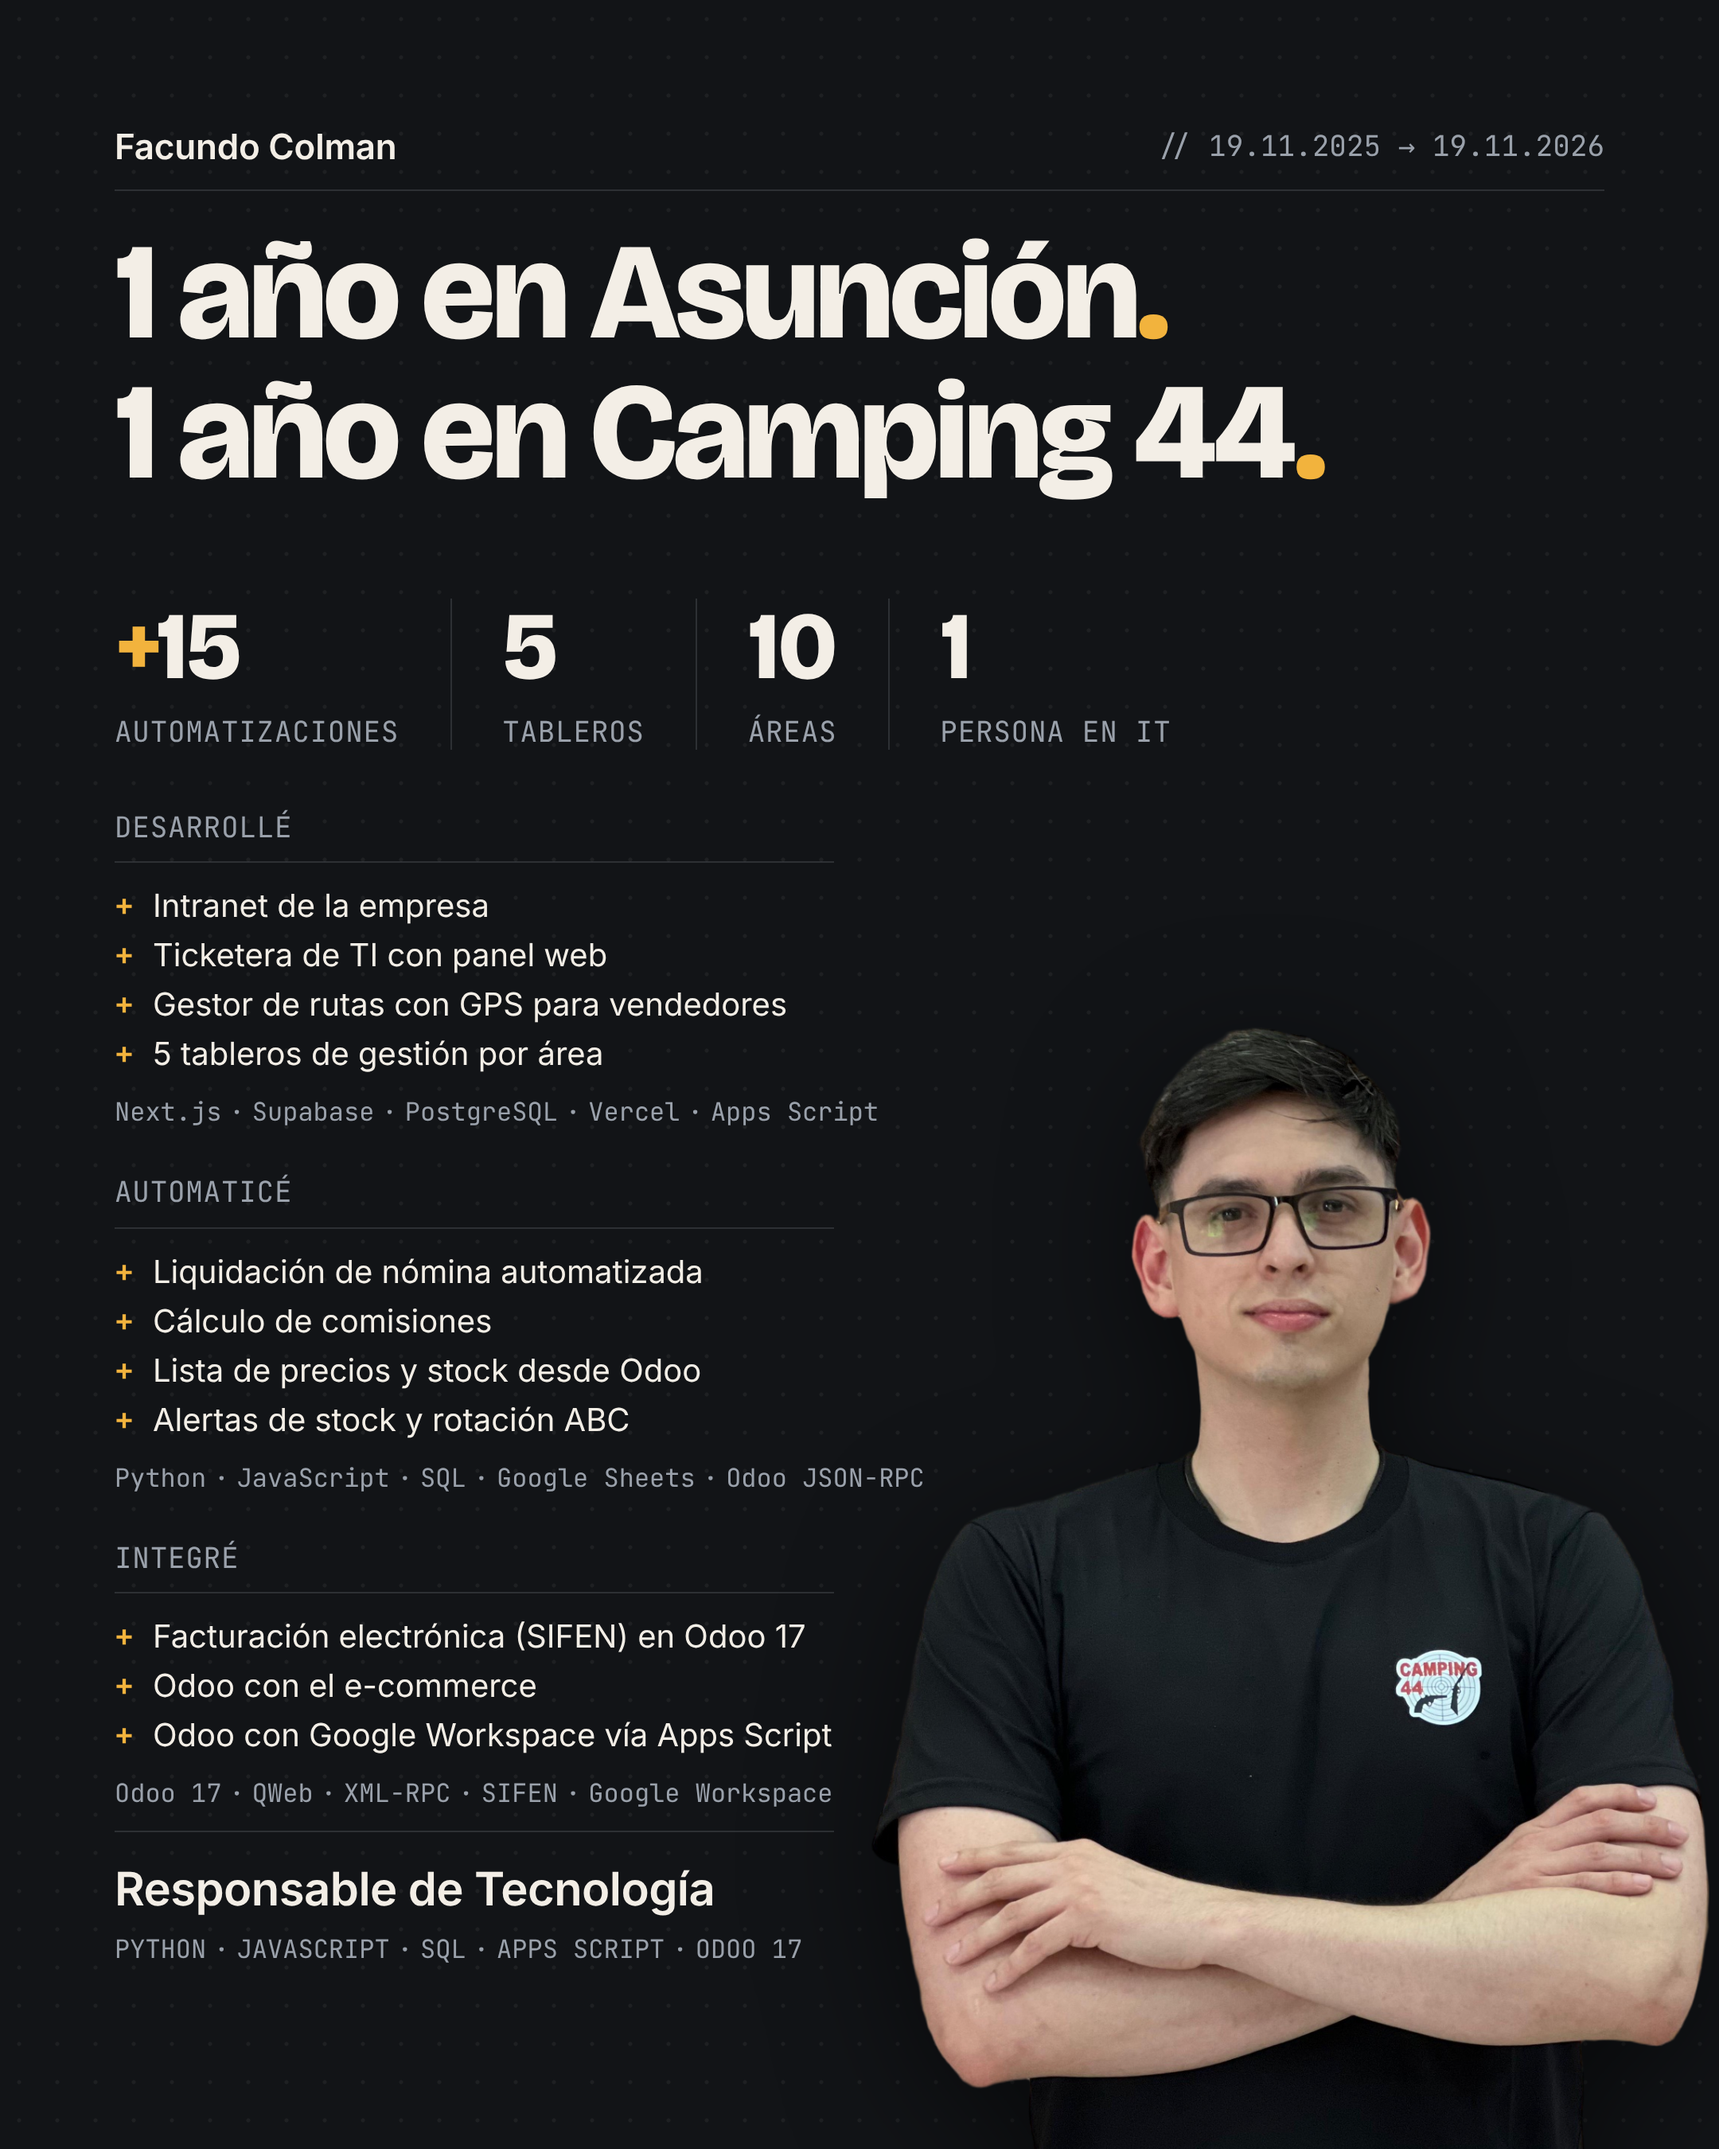
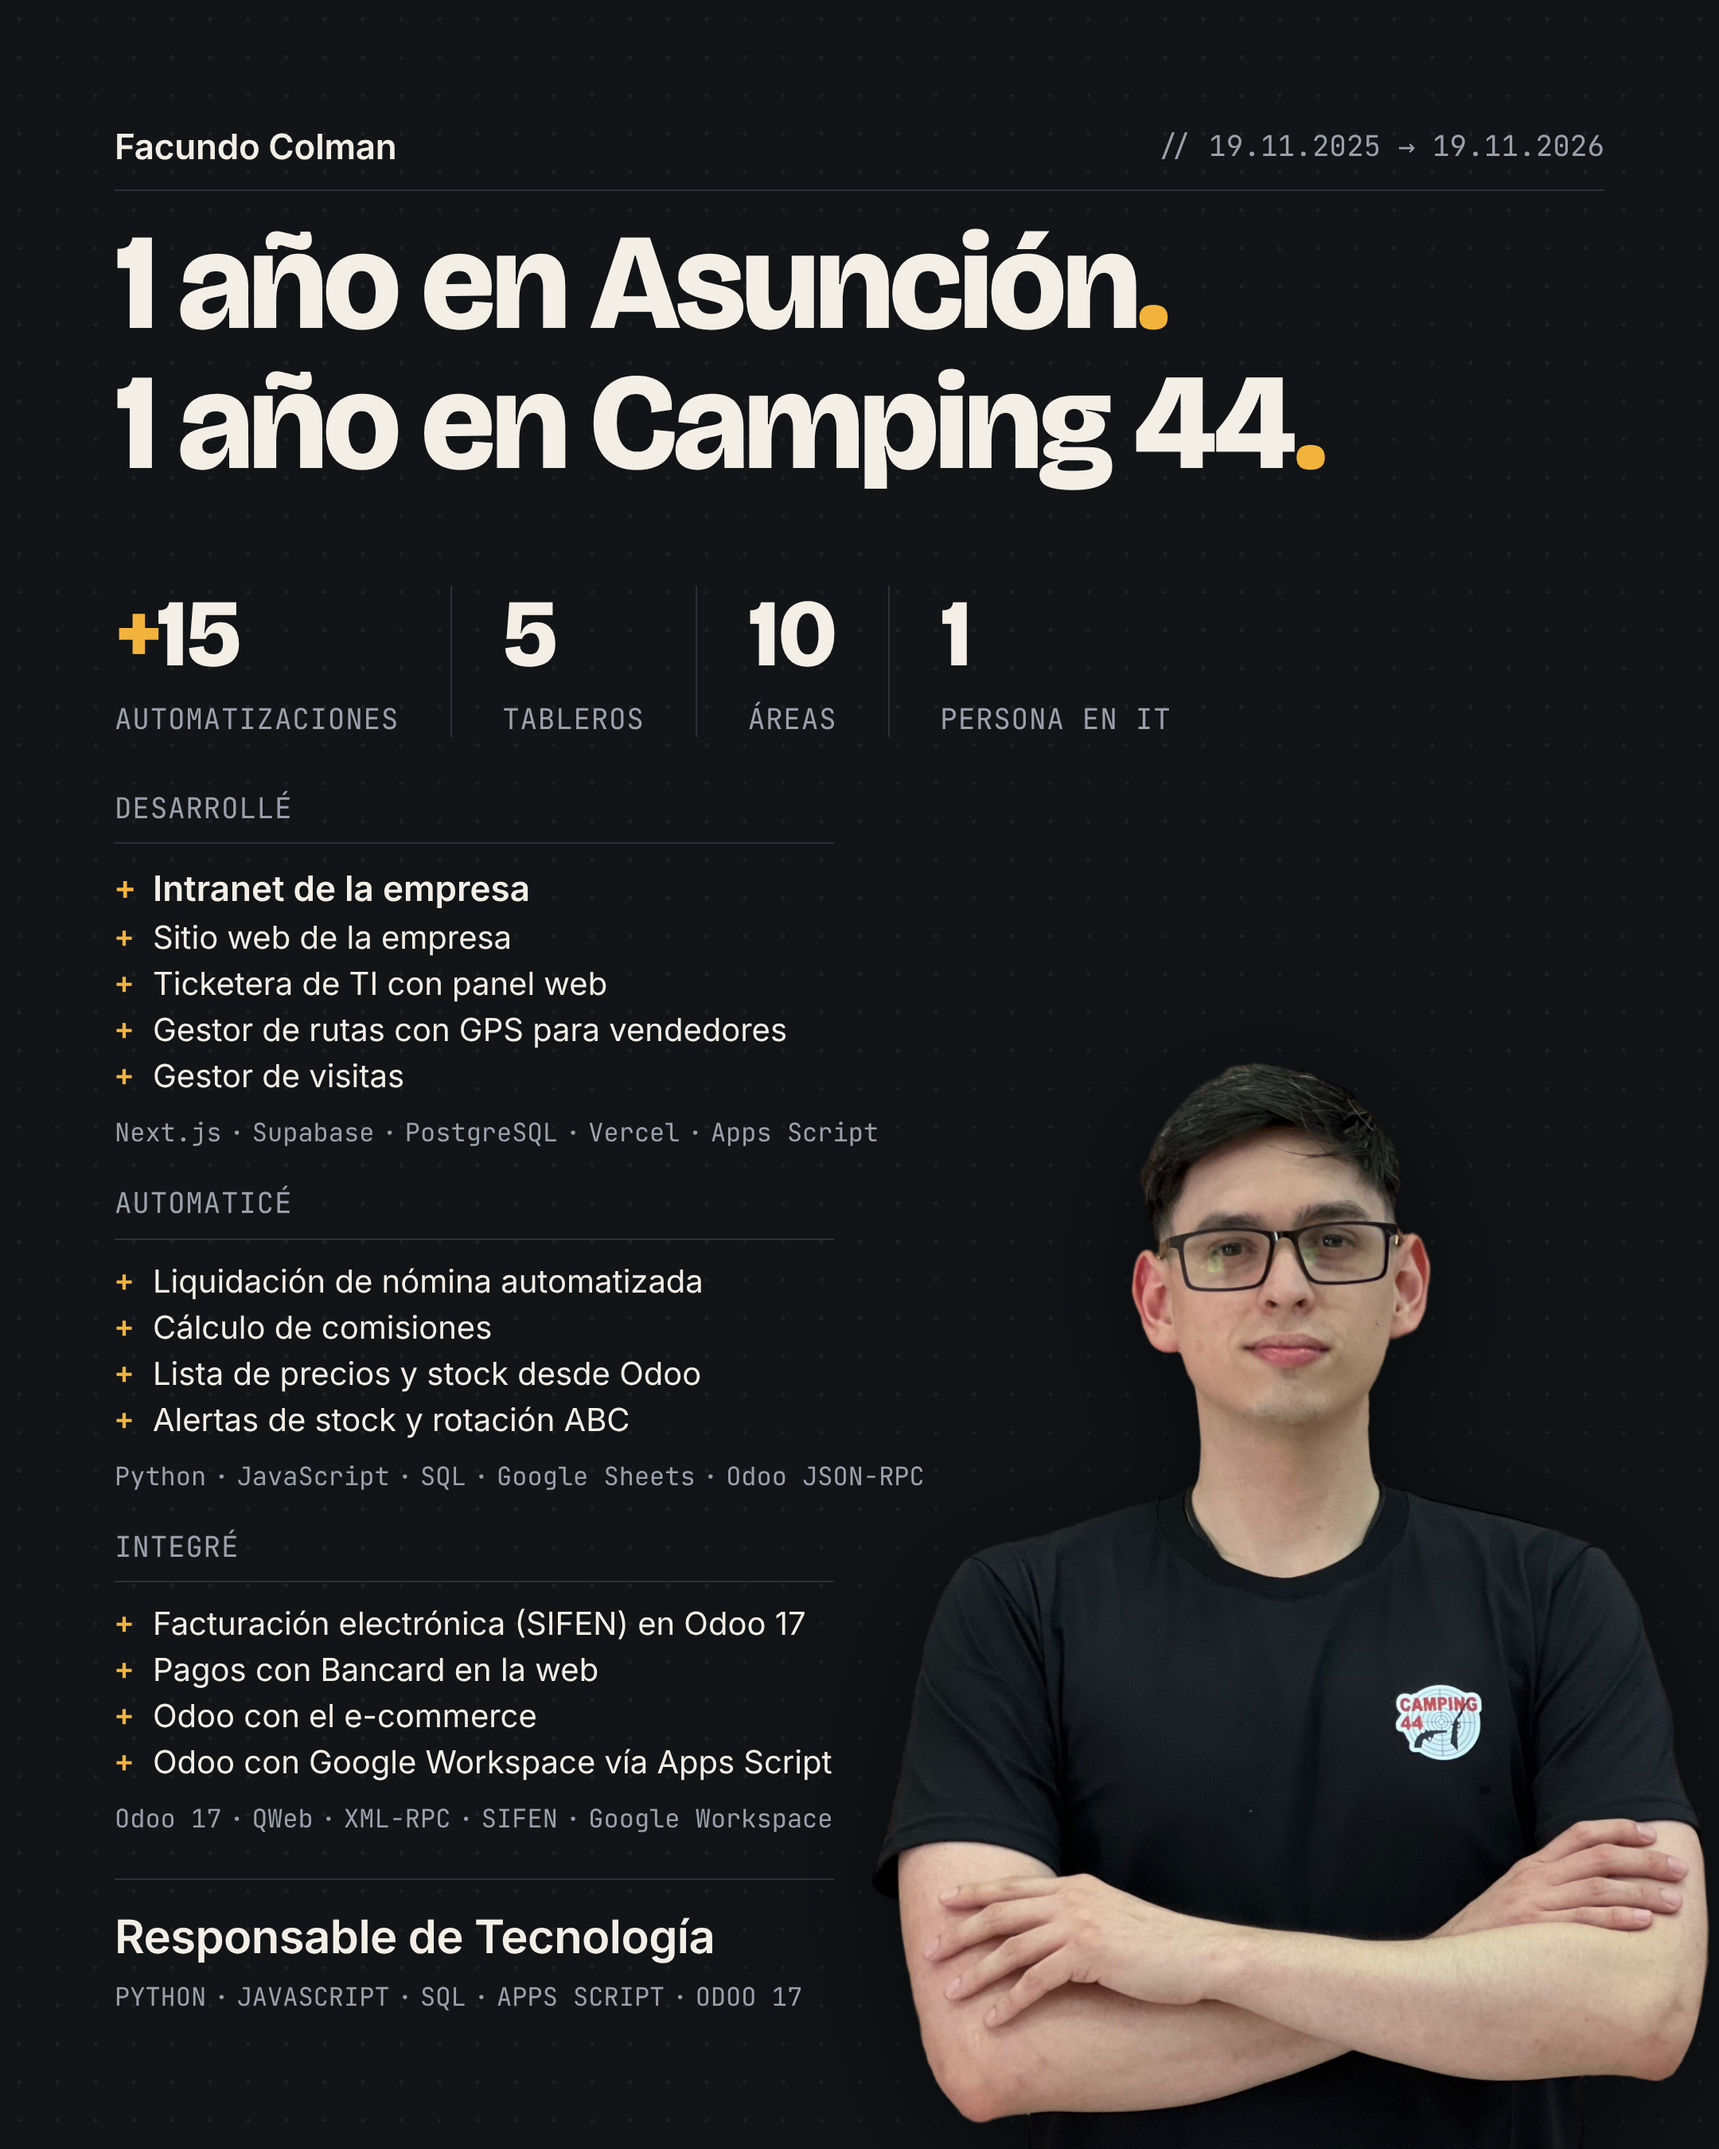
Post LinkedIn: suma sitio web, gestor de visitas y Bancard; destaca la intranet
- Desarrollé: intranet destacada (600, 22 px), sitio web, gestor de visitas
- Integré: pagos con Bancard en la web
- Quita '5 tableros de gestión por área' (ya está en los números)
- Interlineado y espacios ajustados; foto 22 px más abajo para el aire con INTEGRÉ

Claude-Session: https://claude.ai/code/session_01QmKcF7XnkXzDbM9dM3Boey

diff --git a/src/post.html b/src/post.html
@@ -20,21 +20,22 @@
 
   <img class="photo" src="foto_recorte.png" alt="Facundo Colman">
 
-  <section class="content stats" style="top:376px">
+  <section class="content stats" style="top:368px">
     <div class="stat"><div class="num"><span class="dot">+</span>15</div><div class="label">Automatizaciones</div></div>
     <div class="stat"><div class="num">5</div><div class="label">Tableros</div></div>
     <div class="stat"><div class="num">10</div><div class="label">Áreas</div></div>
     <div class="stat"><div class="num">1</div><div class="label">Persona en IT</div></div>
   </section>
 
-  <section class="content groups" style="top:508px">
+  <section class="content groups" style="top:496px">
     <div class="group">
       <div class="section-head"><span class="label">Desarrollé</span></div>
       <ul class="notes">
-        <li><span class="plus">+</span>Intranet de la empresa</li>
+        <li class="featured"><span class="plus">+</span>Intranet de la empresa</li>
+        <li><span class="plus">+</span>Sitio web de la empresa</li>
         <li><span class="plus">+</span>Ticketera de TI con panel web</li>
         <li><span class="plus">+</span>Gestor de rutas con GPS para vendedores</li>
-        <li><span class="plus">+</span>5 tableros de gestión por área</li>
+        <li><span class="plus">+</span>Gestor de visitas</li>
       </ul>
       <div class="tech">Next.js<span class="sep"> · </span>Supabase<span class="sep"> · </span>PostgreSQL<span class="sep"> · </span>Vercel<span class="sep"> · </span>Apps Script</div>
     </div>
@@ -52,6 +53,7 @@
       <div class="section-head"><span class="label">Integré</span></div>
       <ul class="notes">
         <li><span class="plus">+</span>Facturación electrónica (SIFEN) en Odoo 17</li>
+        <li><span class="plus">+</span>Pagos con Bancard en la web</li>
         <li><span class="plus">+</span>Odoo con el e-commerce</li>
         <li><span class="plus">+</span>Odoo con Google Workspace vía Apps Script</li>
       </ul>
@@ -59,7 +61,7 @@
     </div>
   </section>
 
-  <footer class="footer" style="top:1150px">
+  <footer class="footer" style="top:1180px">
     <div class="role">Responsable de Tecnología</div>
     <div class="tech">PYTHON<span class="sep"> · </span>JAVASCRIPT<span class="sep"> · </span>SQL<span class="sep"> · </span>APPS SCRIPT<span class="sep"> · </span>ODOO 17</div>
   </footer>

diff --git a/src/build.js b/src/build.js
@@ -13,10 +13,11 @@ const C = { ivory: '#F3EEE6', gray: '#9AA1AB', gold: '#F2B33D', bg: '#121417',
 
 const GROUPS = [
   ['Desarrollé', ['Next.js', 'Supabase', 'PostgreSQL', 'Vercel', 'Apps Script'], [
-    'Intranet de la empresa',
+    '*Intranet de la empresa',
+    'Sitio web de la empresa',
     'Ticketera de TI con panel web',
     'Gestor de rutas con GPS para vendedores',
-    '5 tableros de gestión por área',
+    'Gestor de visitas',
   ]],
   ['Automaticé', ['Python', 'JavaScript', 'SQL', 'Google Sheets', 'Odoo JSON-RPC'], [
     'Liquidación de nómina automatizada',
@@ -26,6 +27,7 @@ const GROUPS = [
   ]],
   ['Integré', ['Odoo 17', 'QWeb', 'XML-RPC', 'SIFEN', 'Google Workspace'], [
     'Facturación electrónica (SIFEN) en Odoo 17',
+    'Pagos con Bancard en la web',
     'Odoo con el e-commerce',
     'Odoo con Google Workspace vía Apps Script',
   ]],
@@ -34,7 +36,7 @@ const GROUPS = [
 // Posiciones verticales (px CSS) de cada bloque
 const FOOTER_TECH = ['PYTHON', 'JAVASCRIPT', 'SQL', 'APPS SCRIPT', 'ODOO 17'];
 
-const L = { stats: 376, groups: 508, footer: 1150 };
+const L = { stats: 368, groups: 496, footer: 1180 };
 
 // Línea de tecnologías: palabras separadas por " · "
 const tech = words => `<div class="tech">${words.join('<span class="sep"> · </span>')}</div>`;
@@ -44,7 +46,9 @@ function page() {
     <div class="group">
       <div class="section-head"><span class="label">${title}</span></div>
       <ul class="notes">
-        ${items.map(t => `<li><span class="plus">+</span>${t}</li>`).join('\n        ')}
+        ${items.map(t => t.startsWith('*')   // '*' = ítem destacado
+          ? `<li class="featured"><span class="plus">+</span>${t.slice(1)}</li>`
+          : `<li><span class="plus">+</span>${t}</li>`).join('\n        ')}
       </ul>
       ${tech(stack)}
     </div>`).join('');

diff --git a/src/styles.css b/src/styles.css
@@ -43,7 +43,7 @@ html, body { width: 1080px; height: 1350px; background: var(--bg); }
 /* ---------- Título ---------- */
 .title {
   position: absolute;
-  top: 140px; left: var(--margin);
+  top: 134px; left: var(--margin);
   font-family: "Bricolage Grotesque", sans-serif;
   font-weight: 800;
   font-size: 86px;
@@ -57,7 +57,7 @@ html, body { width: 1080px; height: 1350px; background: var(--bg); }
 /* ---------- Foto ---------- */
 .photo {
   position: absolute;
-  right: 6px; bottom: -118px;         /* mismo tamaño; corre hacia abajo para dejar aire a las líneas técnicas (codos siguen dentro) */
+  right: 6px; bottom: -140px;         /* mismo tamaño; corre hacia abajo para dejar aire a las líneas técnicas (codos siguen dentro) */
   width: 527px;                        /* máximo que deja ~30 px de aire con los ítems más largos */
   height: auto;
   filter: drop-shadow(0 18px 40px rgba(0, 0, 0, 0.55));
@@ -103,14 +103,15 @@ html, body { width: 1080px; height: 1350px; background: var(--bg); }
 }
 
 /* Grupos: Desarrollé / Automaticé / Integré */
-.groups { display: flex; flex-direction: column; gap: 28px; }
+.groups { display: flex; flex-direction: column; gap: 22px; }
 .notes { list-style: none; }
 .notes li {
   display: flex; align-items: baseline;
-  font-size: 20px; line-height: 31px; font-weight: 400;
+  font-size: 20px; line-height: 29px; font-weight: 400;
   color: var(--ivory);
   white-space: nowrap;
 }
+.notes li.featured { font-weight: 600; font-size: 22px; line-height: 33px; } /* la intranet, lo más llamativo */
 .notes .plus {
   flex: 0 0 24px;
   font-family: "JetBrains Mono", monospace; font-weight: 500;
